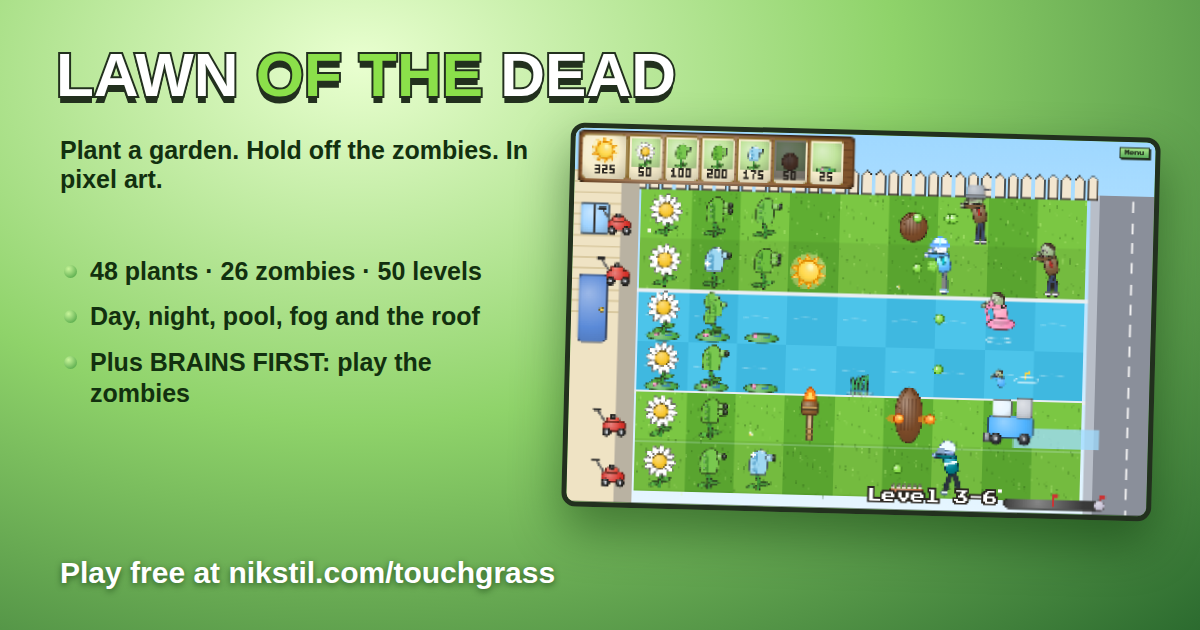
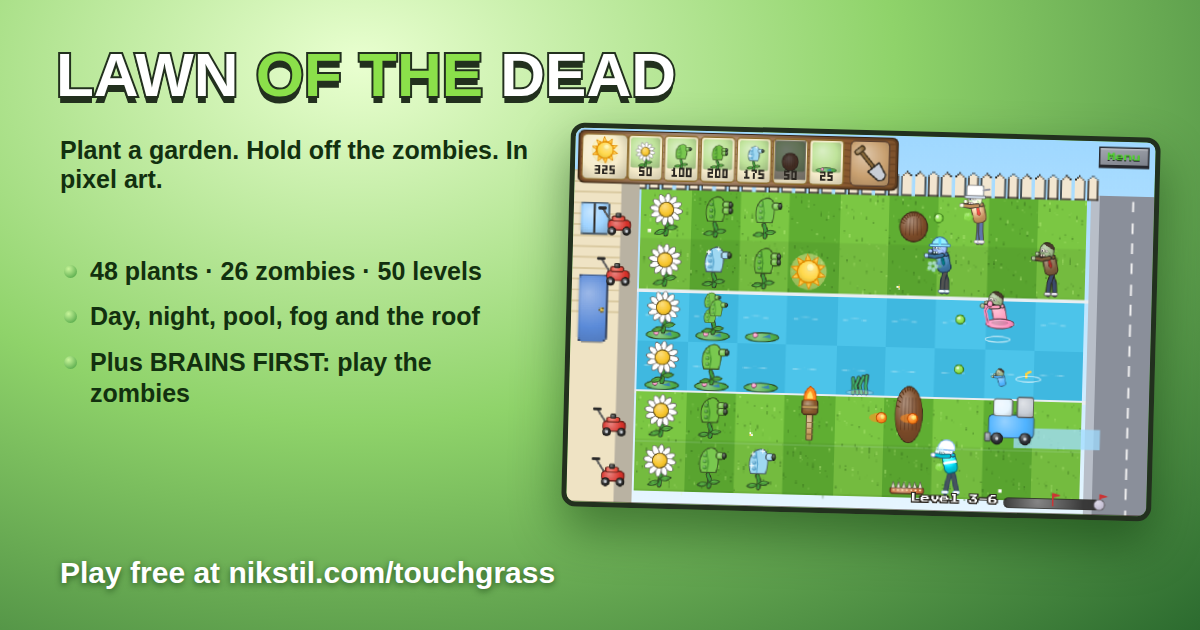
LAWN OF THE DEAD + BRAINS FIRST: plants and zombies at triple the resolution
The scenery stays in chunky 3× pixels, but everything on it (plants,
zombies, shots, sun, the seed bank and banners) is now drawn three times
finer, so each plant and zombie is easy to make out. Seed packets, the
level preview and the Almanac pictures get the same detail.

Numbers use the 3×5 pixel digits scaled up in whole pixels (so seed costs
fit their packets), and long banners step down in size and wrap instead of
shrinking to unreadable. Link-preview images regenerated.

Claude-Session: https://claude.ai/code/session_01F27FsK6TNU3iDQhCqJiFUa

diff --git a/touchgrass/draw.js b/touchgrass/draw.js
@@ -255,6 +255,8 @@ function paintRoof(ctx, g, L) {
 // Text is held back while drawing and written straight onto the small picture afterwards, in the
 // pixel font at its real 8px size (numbers in a tiny 3×5 font where 8px won't fit), so it stays sharp.
 export const PIXEL = 3
+/** Plants, zombies and everything that moves are drawn three times finer than the scenery. */
+export const SPRITE_PIXEL = 1
 const buffers = new Map()
 function buffer(key, w, h) {
   let b = buffers.get(key)
@@ -298,9 +300,14 @@ export function pixelRender(target, w, h, factor, draw, key = 'main') {
   target.drawImage(lo, 0, 0, lo.width * factor, lo.height * factor)
   target.restore()
 }
-/** Draws the game onto ctx (already scaled to the 960×620 space) as pixel art. */
+/**
+ * Draws the game onto ctx (already scaled to the 960×620 space) as pixel art: the scenery in
+ * chunky PIXEL blocks, then everything on it (plants, zombies, shots, the seed bank) three times
+ * finer, so they're easy to make out.
+ */
 export function drawGamePixel(ctx, g, ui) {
-  pixelRender(ctx, W, H, PIXEL, (c) => drawGame(c, g, ui), 'game')
+  pixelRender(ctx, W, H, PIXEL, (c) => c.drawImage(background(g), 0, 0), 'game-scenery')
+  pixelRender(ctx, W, H, SPRITE_PIXEL, (c) => drawGame(c, g, { ...ui, noScenery: true }), 'game-sprites')
 }
 
 // A 3×5 font for numbers (and $, /, ×) that won't fit at 8px.
@@ -314,29 +321,31 @@ function pixelText(lc, t) {
   const px = size * t.scale // its size on the small picture
   lc.save()
   lc.globalAlpha = t.alpha
-  const mini = px < 7 && /^[\d$/× -]+$/.test(t.text)
+  const mini = px < 20 && /^[\d$/× -]+$/.test(t.text)
   if (mini) {
-    // the tiny font: 4px per character, with a 1px dark outline
-    const w = t.text.length * 4 - 1
+    // numbers: the tiny 3×5 font, in whole-pixel steps (1× on the scenery, bigger on the sprites)
+    const k = Math.max(1, Math.round(px / 6))
+    const w = (t.text.length * 4 - 1) * k
     let x = Math.round(t.align === 'center' ? t.x - w / 2 : t.align === 'right' || t.align === 'end' ? t.x - w : t.x)
-    const y = Math.round(t.base === 'middle' ? t.y - 2.5 : t.base === 'top' ? t.y : t.y - 5)
+    const y = Math.round(t.base === 'middle' ? t.y - 2.5 * k : t.base === 'top' ? t.y : t.y - 5 * k)
     if (t.kind === 'stroke') return lc.restore()
+    lc.fillStyle = typeof t.fill === 'string' ? t.fill : '#000'
     for (const ch of t.text) {
       const bits = MINI[ch] ?? MINI[' ']
-      for (let i = 0; i < 15; i++) if (bits[i] === '1') {
-        lc.fillStyle = typeof t.fill === 'string' ? t.fill : '#000'
-        lc.fillRect(x + (i % 3), y + Math.floor(i / 3), 1, 1)
-      }
-      x += 4
+      for (let i = 0; i < 15; i++) if (bits[i] === '1') lc.fillRect(x + (i % 3) * k, y + Math.floor(i / 3) * k, k, k)
+      x += 4 * k
     }
     return lc.restore()
   }
   // the pixel font at a whole multiple of its 8px design size: 16 for big text, else 8
-  let fs = px >= 14 ? 16 : 8
+  // (on the fine sprite layer, any multiple of 8 that's closest)
+  let fs = px >= 14 ? Math.max(16, Math.round(px / 8) * 8) : 8
   const room = lc.canvas.width - 8
   lc.font = `${fs}px 'Press Start 2P', monospace`
-  if (fs > 8 && lc.measureText(t.text).width > room) {
-    fs = 8
+  // too long: smaller, a step at a time (not below 16 on the fine layer: it wraps instead)
+  const smallest = lc.canvas.width >= W ? 16 : 8
+  while (fs > smallest && lc.measureText(t.text).width > room) {
+    fs -= 8
     lc.font = `${fs}px 'Press Start 2P', monospace`
   }
   // still too long: wrap it onto more lines
@@ -377,7 +386,7 @@ export function pixelCanvas(c, factor, draw) {
 export function drawGame(ctx, g, ui) {
   const L = layout(g)
   const t = g.t
-  ctx.drawImage(background(g), 0, 0)
+  if (!ui.noScenery) ctx.drawImage(background(g), 0, 0)
 
   // ground details: craters, slush, ladders, rakes
   for (const cr of g.craters) {
@@ -1180,7 +1189,7 @@ function drawBanners(ctx, g, ui) {
     const width = ctx.measureText(b.text).width
     if (width > W - 60) {
       // (in steps of 8, so the pixel font stays sharp)
-      b.size = Math.max(8, Math.floor((b.size * (W - 60)) / width / 8) * 8)
+      b.size = Math.max(16, Math.floor((b.size * (W - 60)) / width / 8) * 8) // (the pixel layer wraps what still won't fit)
       ctx.font = PIXEL_FONT(b.size)
     }
     ctx.textAlign = 'center'

diff --git a/touchgrass/app.js b/touchgrass/app.js
@@ -3,7 +3,7 @@
 
 import { LEVELS, LEVEL_BY_ID, PLANTS, PLANT_BY_ID, PLANT_ORDER, ZOMBIES, ZOMBIE_BY_ID, AREAS, SHOP, POTS_FROM, nextLevelId } from './data.js'
 import { createGame } from './sim.js'
-import { W, H, PIXEL, drawGamePixel, pixelCanvas, toLawn, seedRect, shovelRect, beltRect, drawPacket, drawPlantCard, drawZombieCard } from './draw.js'
+import { W, H, SPRITE_PIXEL, drawGamePixel, pixelCanvas, toLawn, seedRect, shovelRect, beltRect, drawPacket, drawPlantCard, drawZombieCard } from './draw.js'
 import { playSfx, setMusic, setSound, setVolume, getVolume, unlockAudio } from './audio.js'
 import { drawTitleScene } from './scene.js'
 
@@ -168,7 +168,7 @@ function packetCanvas(id, opts = {}) {
   const c = document.createElement('canvas')
   c.width = 116
   c.height = 152
-  pixelCanvas(c, 2 * PIXEL, (ctx) => {
+  pixelCanvas(c, 2 * SPRITE_PIXEL, (ctx) => {
     ctx.scale(2, 2)
     drawPacket(ctx, id, 1, 1, 56, 74, { cost: PLANT_BY_ID[id]?.cost ?? null, ...opts })
   })
@@ -224,7 +224,7 @@ function renderPicker() {
     c.width = 160
     c.height = 200
     c.title = ZOMBIE_BY_ID[z].name
-    pixelCanvas(c, 4, (ctx) => {
+    pixelCanvas(c, 2, (ctx) => {
       ctx.scale(2, 2)
       drawZombieCard(ctx, z, 40, 92, 0.62)
     })
@@ -327,7 +327,7 @@ function finish(won, e) {
     const p = PLANT_BY_ID[level.unlock]
     title = `New plant: ${p.name}`
     copy = `${p.desc} (${p.cost} sun)`
-    pixelCanvas($('#won-art'), 4, (x) => drawPlantCard(x, level.unlock, 100, 140, 1.4, 0))
+    pixelCanvas($('#won-art'), 1, (x) => drawPlantCard(x, level.unlock, 100, 140, 1.4, 0))
   } else if (reward === 'trophy') {
     title = 'You beat the Rotbot!'
     copy = 'The lawn is quiet. The house is safe. Your brains are still yours. Go and water something.'
@@ -562,7 +562,7 @@ function renderAlmanac() {
     c.width = 108
     c.height = 108
     if (known)
-      pixelCanvas(c, 4, (cx) => {
+      pixelCanvas(c, 2, (cx) => {
         cx.scale(2, 2)
         if (almTab === 'plants') drawPlantCard(cx, it.id, 27, 50, 0.5)
         else drawZombieCard(cx, it.id, 30, 52, 0.36)
@@ -605,7 +605,7 @@ function renderAlmanac() {
 // The Almanac's big picture, animated while it's open.
 function drawAlmanacArt(t) {
   const c = $('#alm-art')
-  pixelCanvas(c, 4, (x) => {
+  pixelCanvas(c, 1, (x) => {
     if (almTab === 'plants') drawPlantCard(x, almSel, 110, 170, 1.4, t)
     else drawZombieCard(x, almSel, 120, 186, almSel === 'gigachad' ? 0.62 : 1.1, t)
   })
